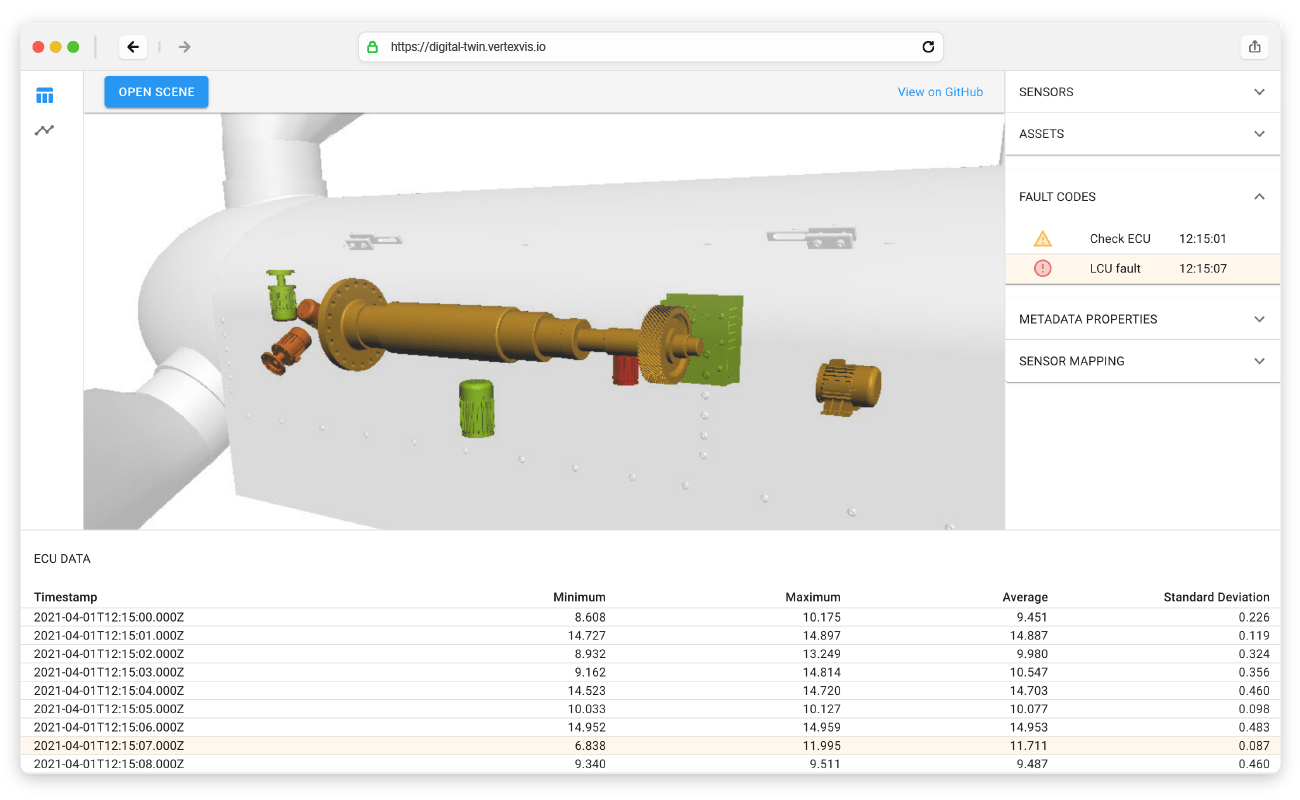
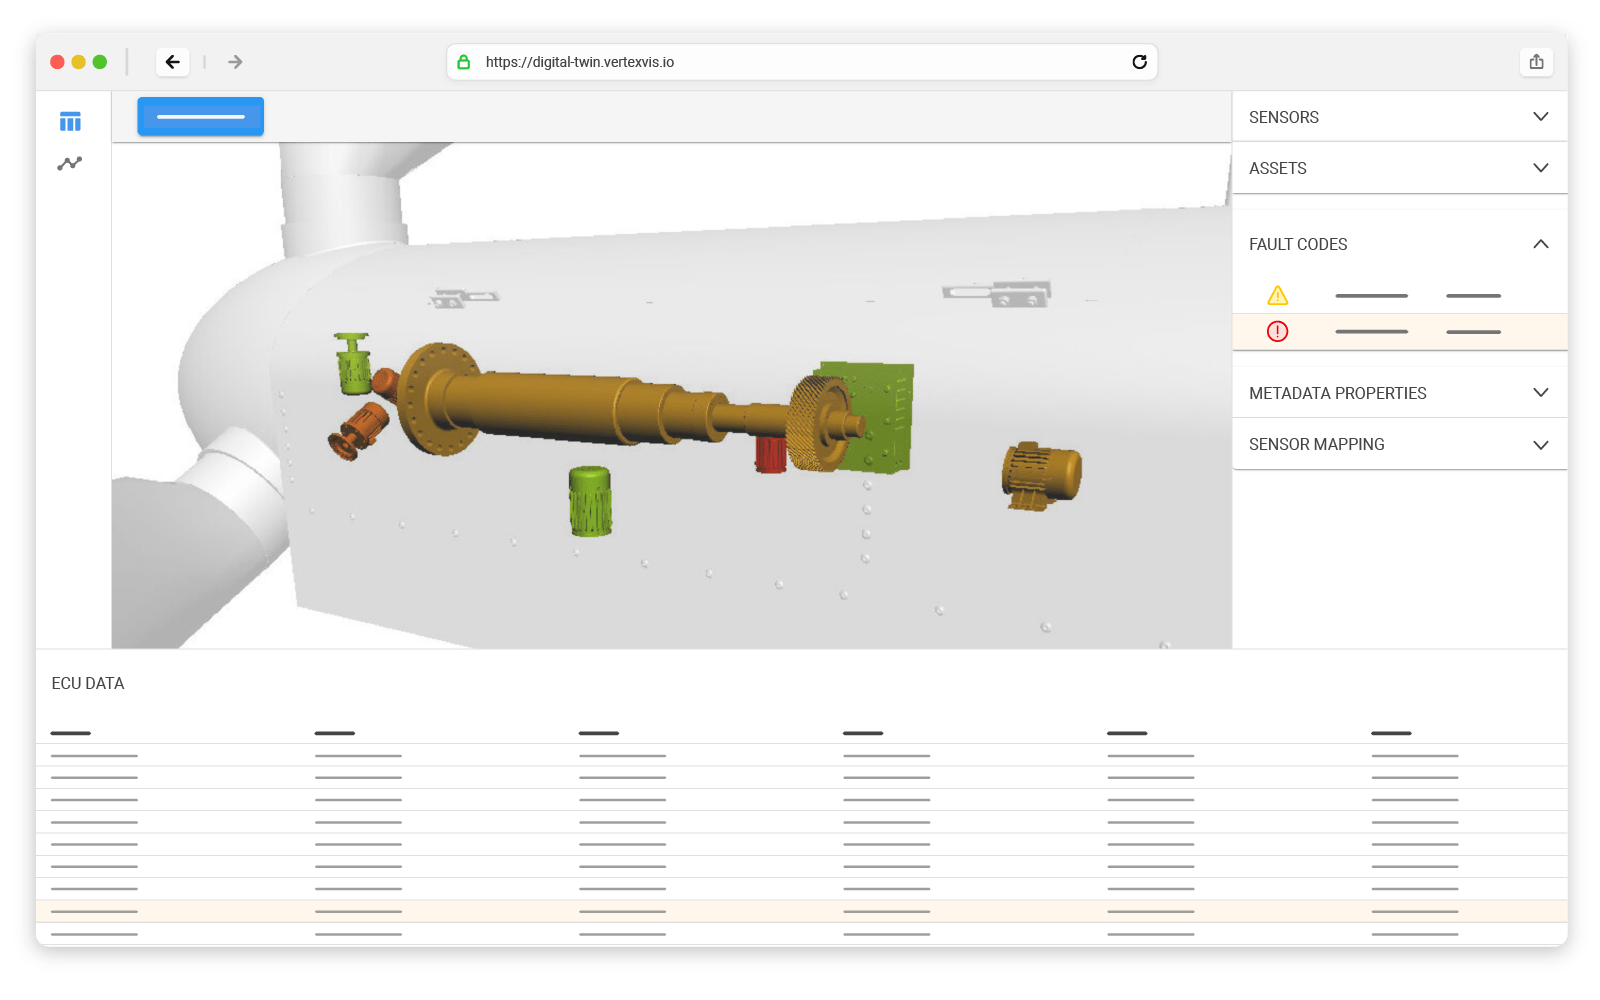
updated images

diff --git a/src/pages/examples/3d-visual-analytics.js b/src/pages/examples/3d-visual-analytics.js
@@ -86,7 +86,7 @@ function BusinessInt() {
               </p>
             </div>
             <div className={classnames('col', 'col--8', 'col--offset-2')}>
-              <img src="/img/examples/visual-analytics@2x.png" alt="" />
+              <img src="/img/examples/visual-analytics.png" alt="" />
             </div>
             <div
               className={classnames(

diff --git a/src/pages/examples/digital-twin.js b/src/pages/examples/digital-twin.js
@@ -86,7 +86,7 @@ function TimeSeries() {
               </p>
             </div>
             <div className={classnames('col', 'col--8', 'col--offset-2')}>
-              <img src="/img/examples/digital-twin@2x.png" alt="" />
+              <img src="/img/examples/digital-twin.png" alt="" />
             </div>
             <div
               className={classnames(

diff --git a/src/pages/examples/nextjs.js b/src/pages/examples/nextjs.js
@@ -85,7 +85,7 @@ function NextJS() {
               </p>
             </div>
             <div className={classnames('col', 'col--8', 'col--offset-2')}>
-              <img src="/img/examples/starter-app@2x.png" alt="" />
+              <img src="/img/examples/starter-app.png" alt="" />
             </div>
             <div
               className={classnames(
